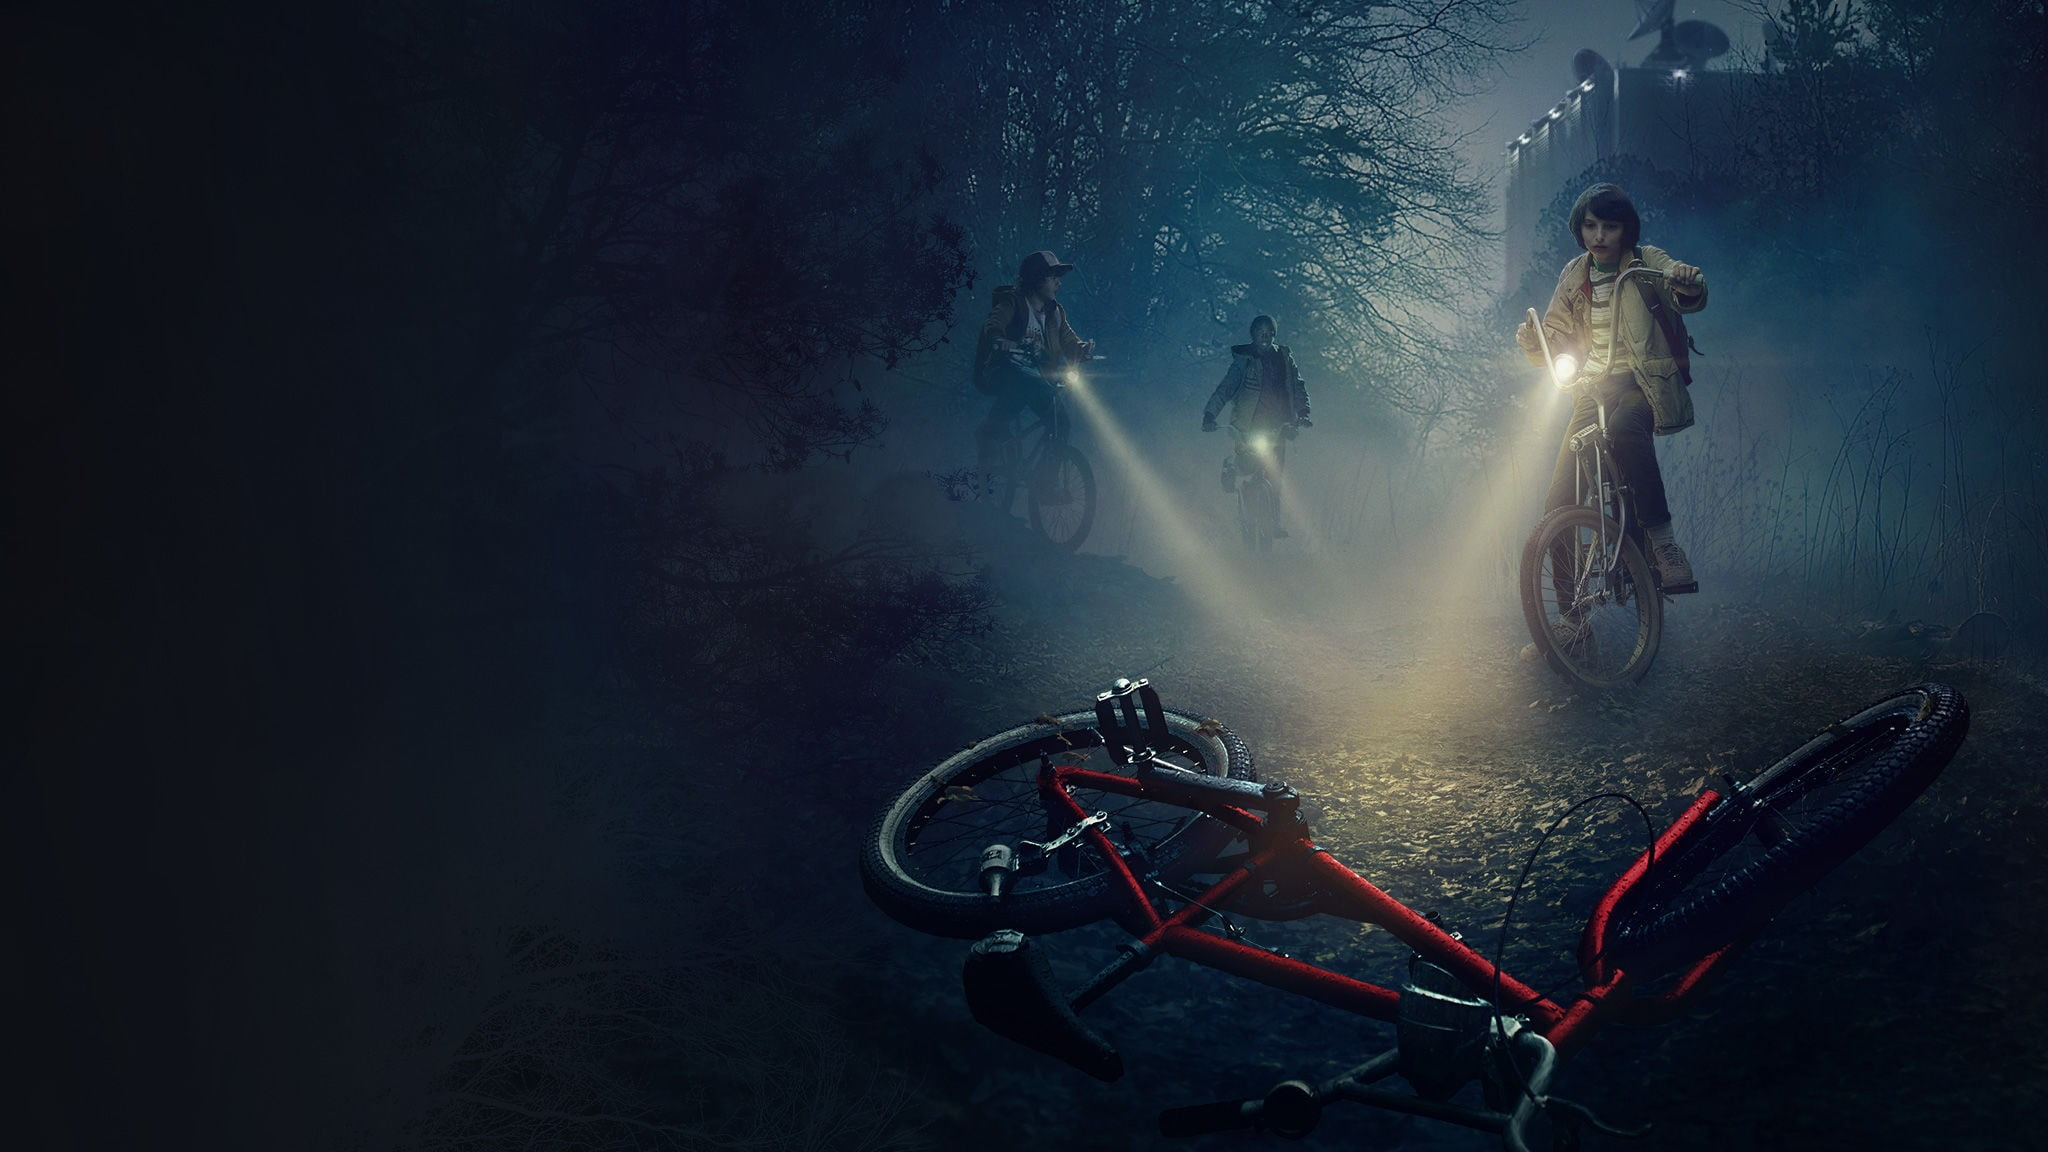
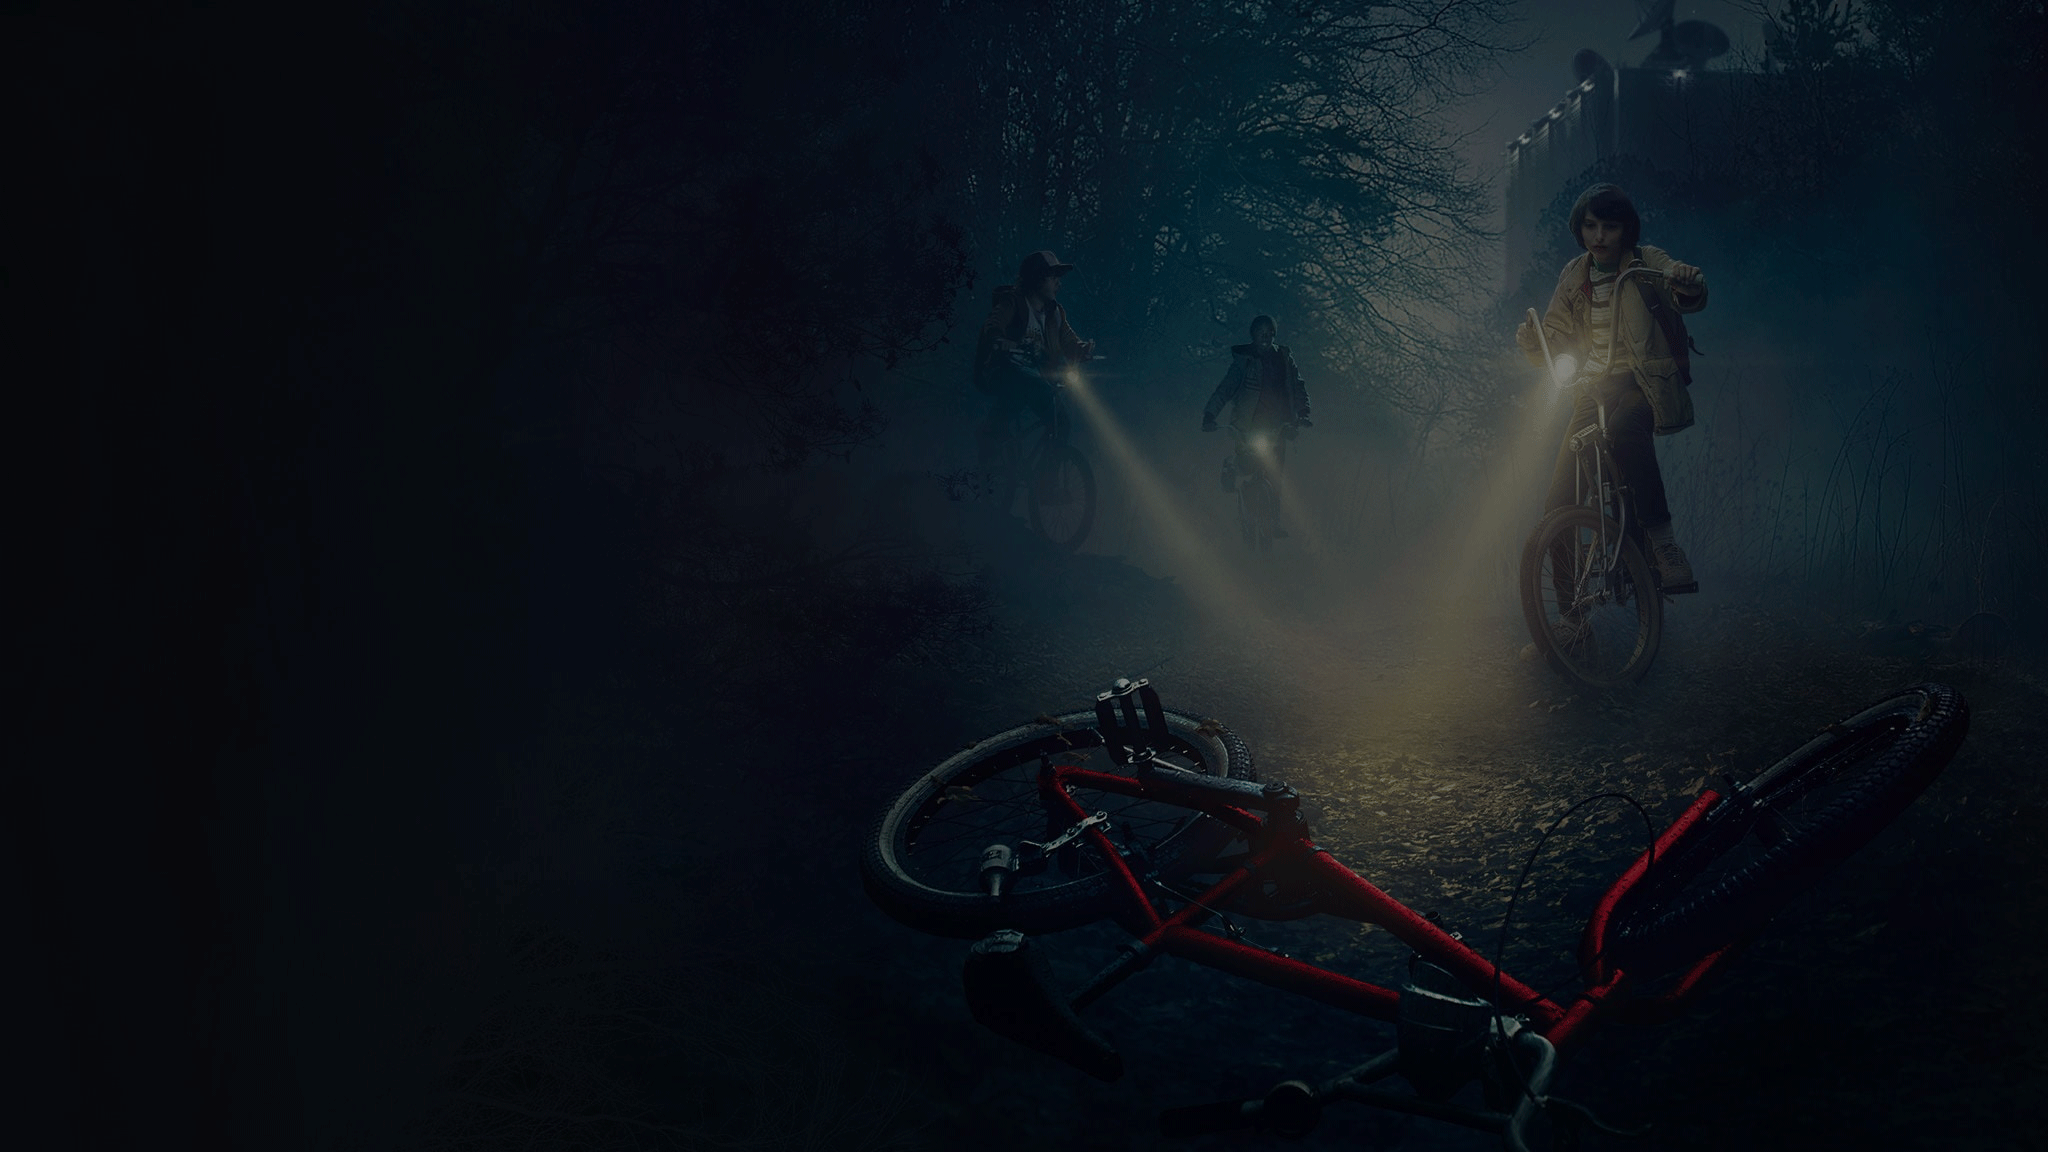
carousel home + opacity bg image

diff --git a/Frontend/components/homePage/CarouselHome.vue b/Frontend/components/homePage/CarouselHome.vue
@@ -1,0 +1,46 @@
+<template>
+  <div class="lg:pt-10">
+    <h2
+      class="text-white uppercase mt-5 mb-3 lg:mb-20 font-bold text-sm lg:text-lg"
+    >
+      Popular this week
+    </h2>
+    <carousel :items-to-show="3.5" :autoplay="4000" :breakpoints="breakpoints">
+      <slide
+        v-for="movie in getAllMoviesFromStore.data?.results"
+        :key="movie.id"
+      >
+        <div class="border-white border-[0.8px] mr-4 cursor-pointer">
+          <img
+            :src="`https://image.tmdb.org/t/p/w500${movie.backdrop_path}`"
+            :alt="movie.overview"
+            class="lg:h-44 h-28 aspect-square lg:aspect-auto object-cover opacity-80"
+          />
+        </div>
+      </slide>
+    </carousel>
+  </div>
+</template>
+
+<script setup lang="ts">
+import { useMovieApiStore } from "~/store/apiStore";
+
+const getAllMoviesFromStore = useMovieApiStore();
+
+onMounted(async () => {
+  await getAllMoviesFromStore.fetchData();
+});
+
+const breakpoints = ref({
+  700: {
+    itemsToShow: 2.5,
+    snapAlign: `start`,
+  },
+  1150: {
+    itemsToShow: 8.5,
+    snapAlign: `start`,
+  },
+});
+</script>
+
+<style scoped lang="css"></style>

diff --git a/Frontend/pages/index.vue b/Frontend/pages/index.vue
@@ -1,6 +1,6 @@
 <template>
   <div
-    class="h-screen w-screen b-cover"
+    class="h-screen w-screen bg-cover"
     :class="[
       isLargeScreen
         ? 'bg-[url(/home-bg/home-bg.jpeg)]'
@@ -35,8 +35,9 @@
               Seasons: <span class="text-gray-500">3 (5 Episodes)</span>
             </p>
           </div>
-          <p class="text-gray-500 mr-10 mt-5 lg:w-1/2">{{ show.overview }}</p>
+          <p class="text-gray-500 mr-10 mt-5 lg:w-2/5">{{ show.overview }}</p>
           <StarsRating :initialRating="show.vote_average / 2" class="pt-2" />
+          <HomePageCarouselHome />
         </div>
       </div>
     </div>

diff --git a/Frontend/components/homePage/Navbar.vue b/Frontend/components/homePage/Navbar.vue
@@ -15,7 +15,7 @@
       <div class="lg:w-1/2">
         <nav>
           <ul
-            class="flex justify-around lg:justify-evenly mt-4 text-sm lg:text-xl text-gray-500"
+            class="flex justify-around lg:justify-evenly mt-4 text-sm lg:text-xl text-gray-400"
           >
             <li>
               <NuxtLink :to="RouteHelper.HOME" activeClass="text-white"

diff --git a/Frontend/store/apiStore.ts b/Frontend/store/apiStore.ts
@@ -18,7 +18,7 @@ export const useMovieApiStore = defineStore("movieApiStore", {
         };
         await fetch(url, options)
           .then((res) => res.json())
-          .then((json) => (console.log(json)))
+          .then((json) => this.data = json)
           .catch((err) => console.error("error:" + err));
       } catch (error) {
         console.log(error);

diff --git a/Frontend/nuxt.config.ts b/Frontend/nuxt.config.ts
@@ -7,6 +7,7 @@ export default defineNuxtConfig({
     "@nuxtjs/tailwindcss",
     '@pinia/nuxt',
     '@vueuse/nuxt',
+    "vue3-carousel-nuxt",
     (_options, nuxt) => {
       nuxt.hooks.hook('vite:extendConfig', (config) => {
         // @ts-expect-error
